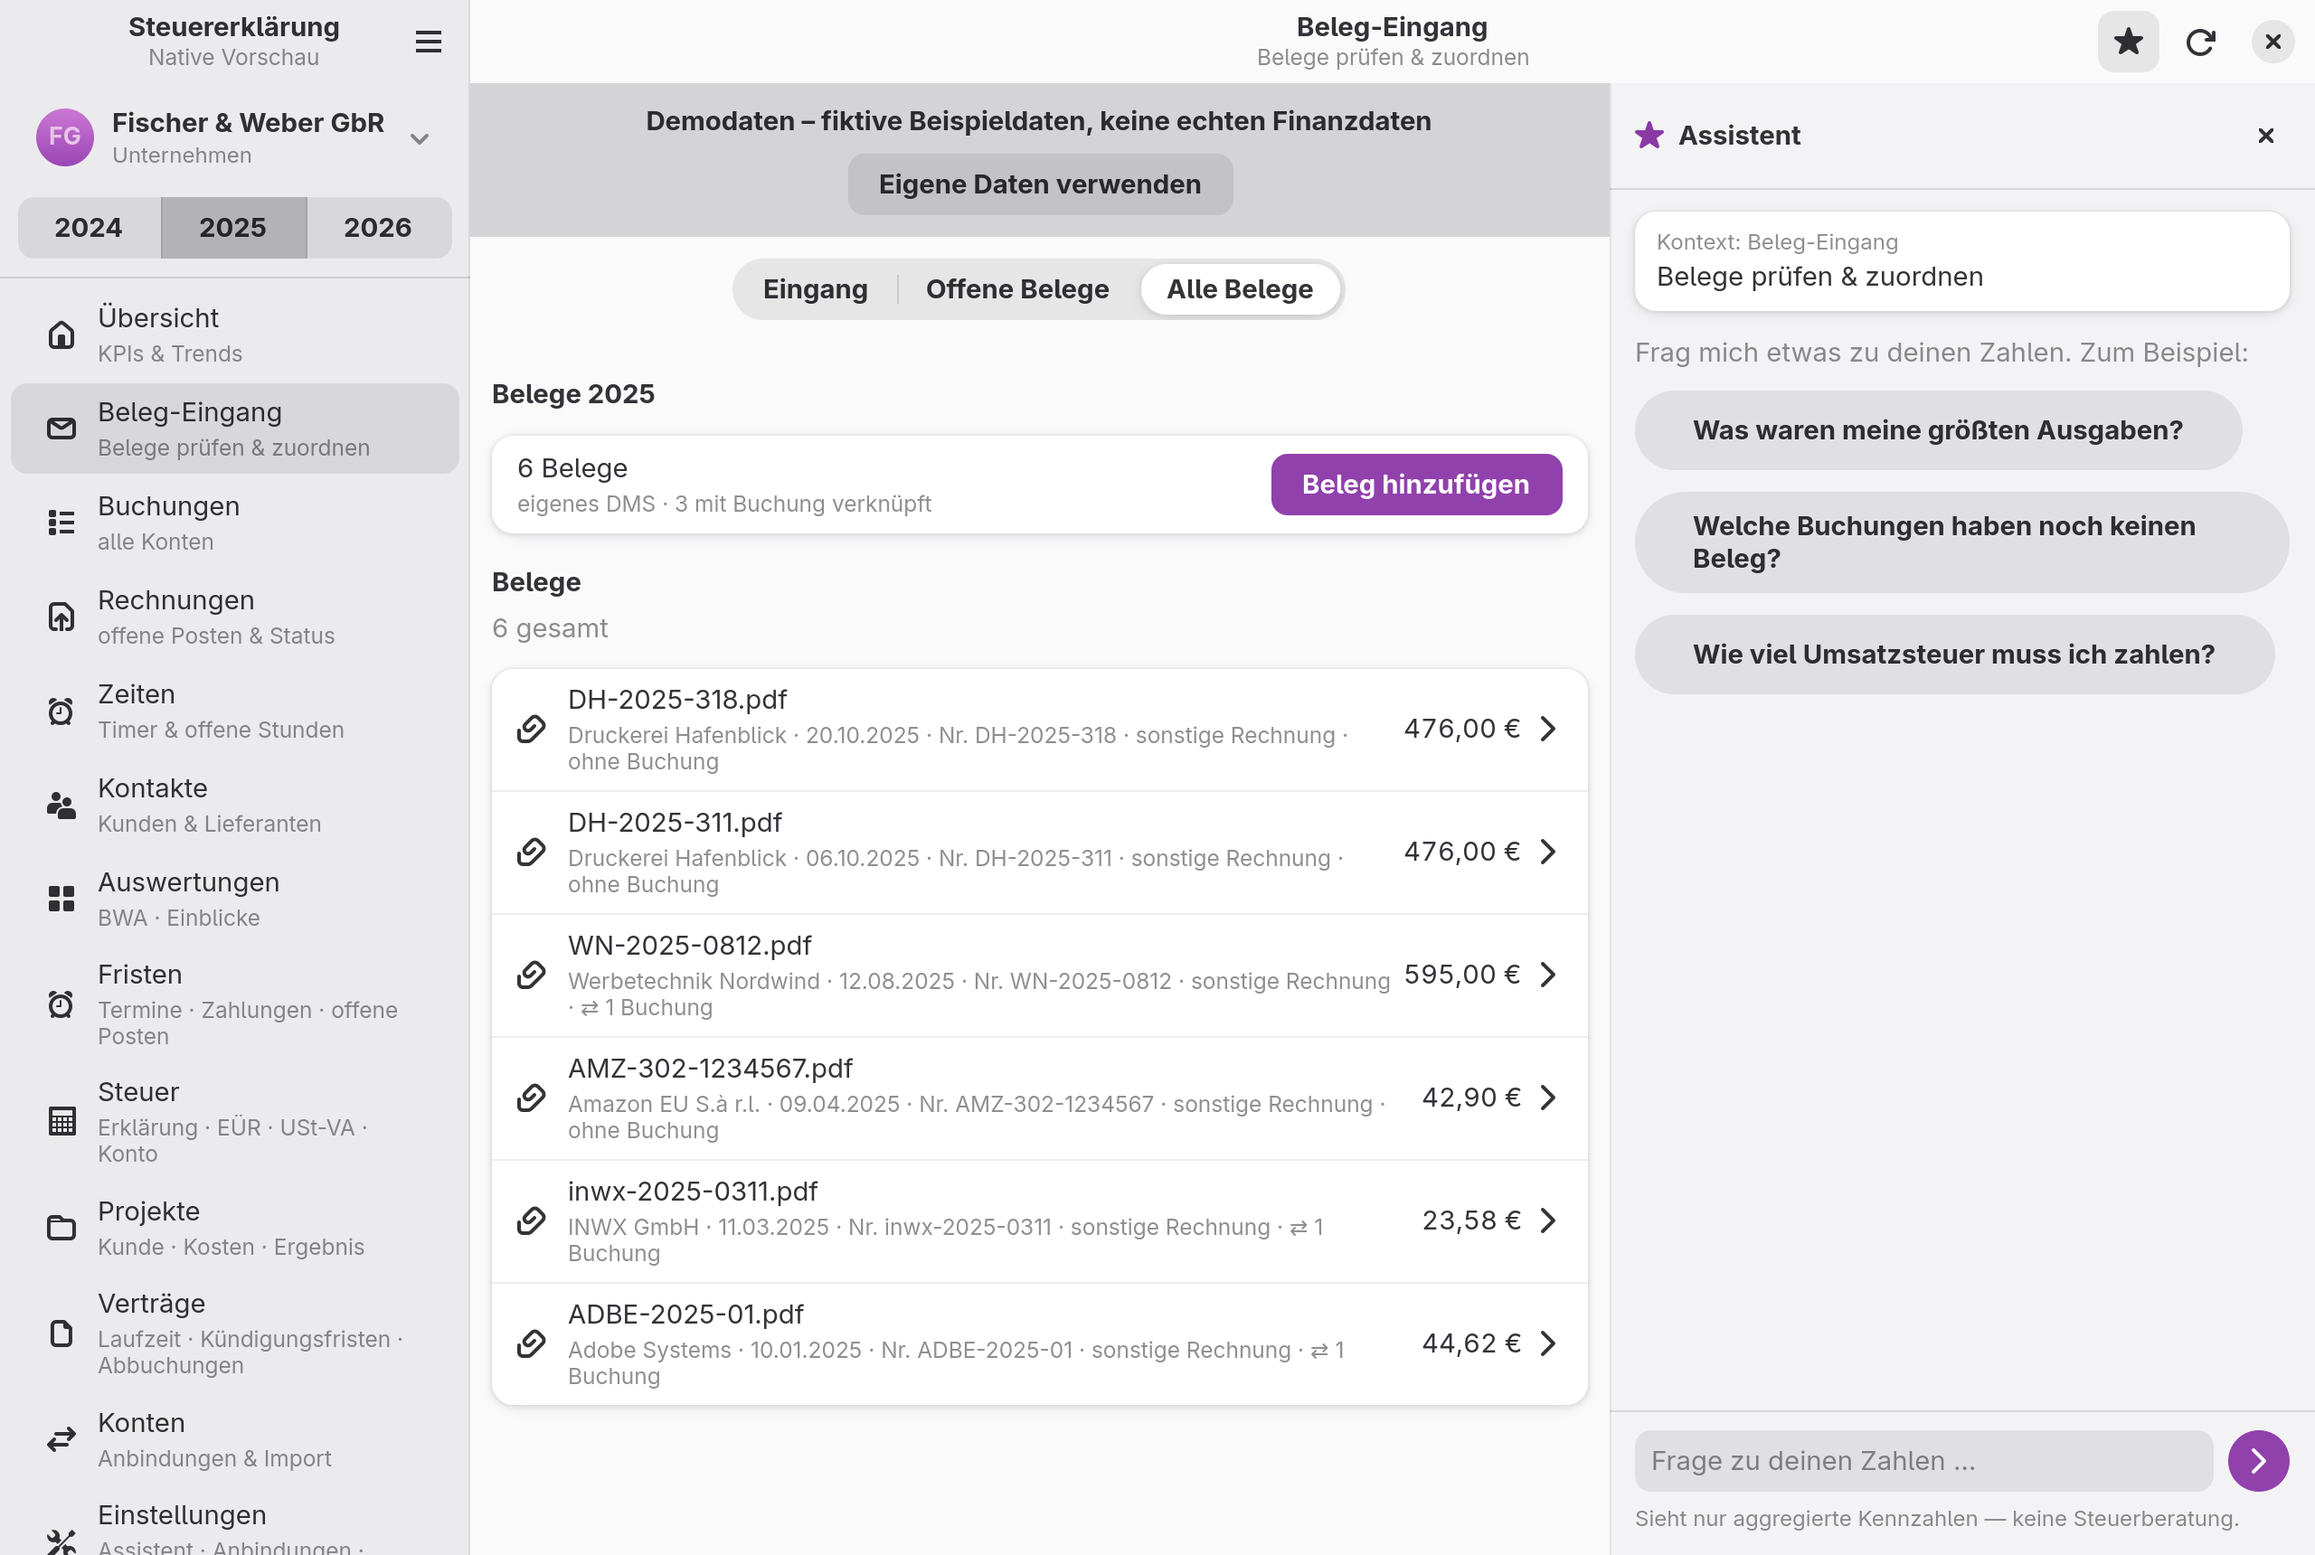
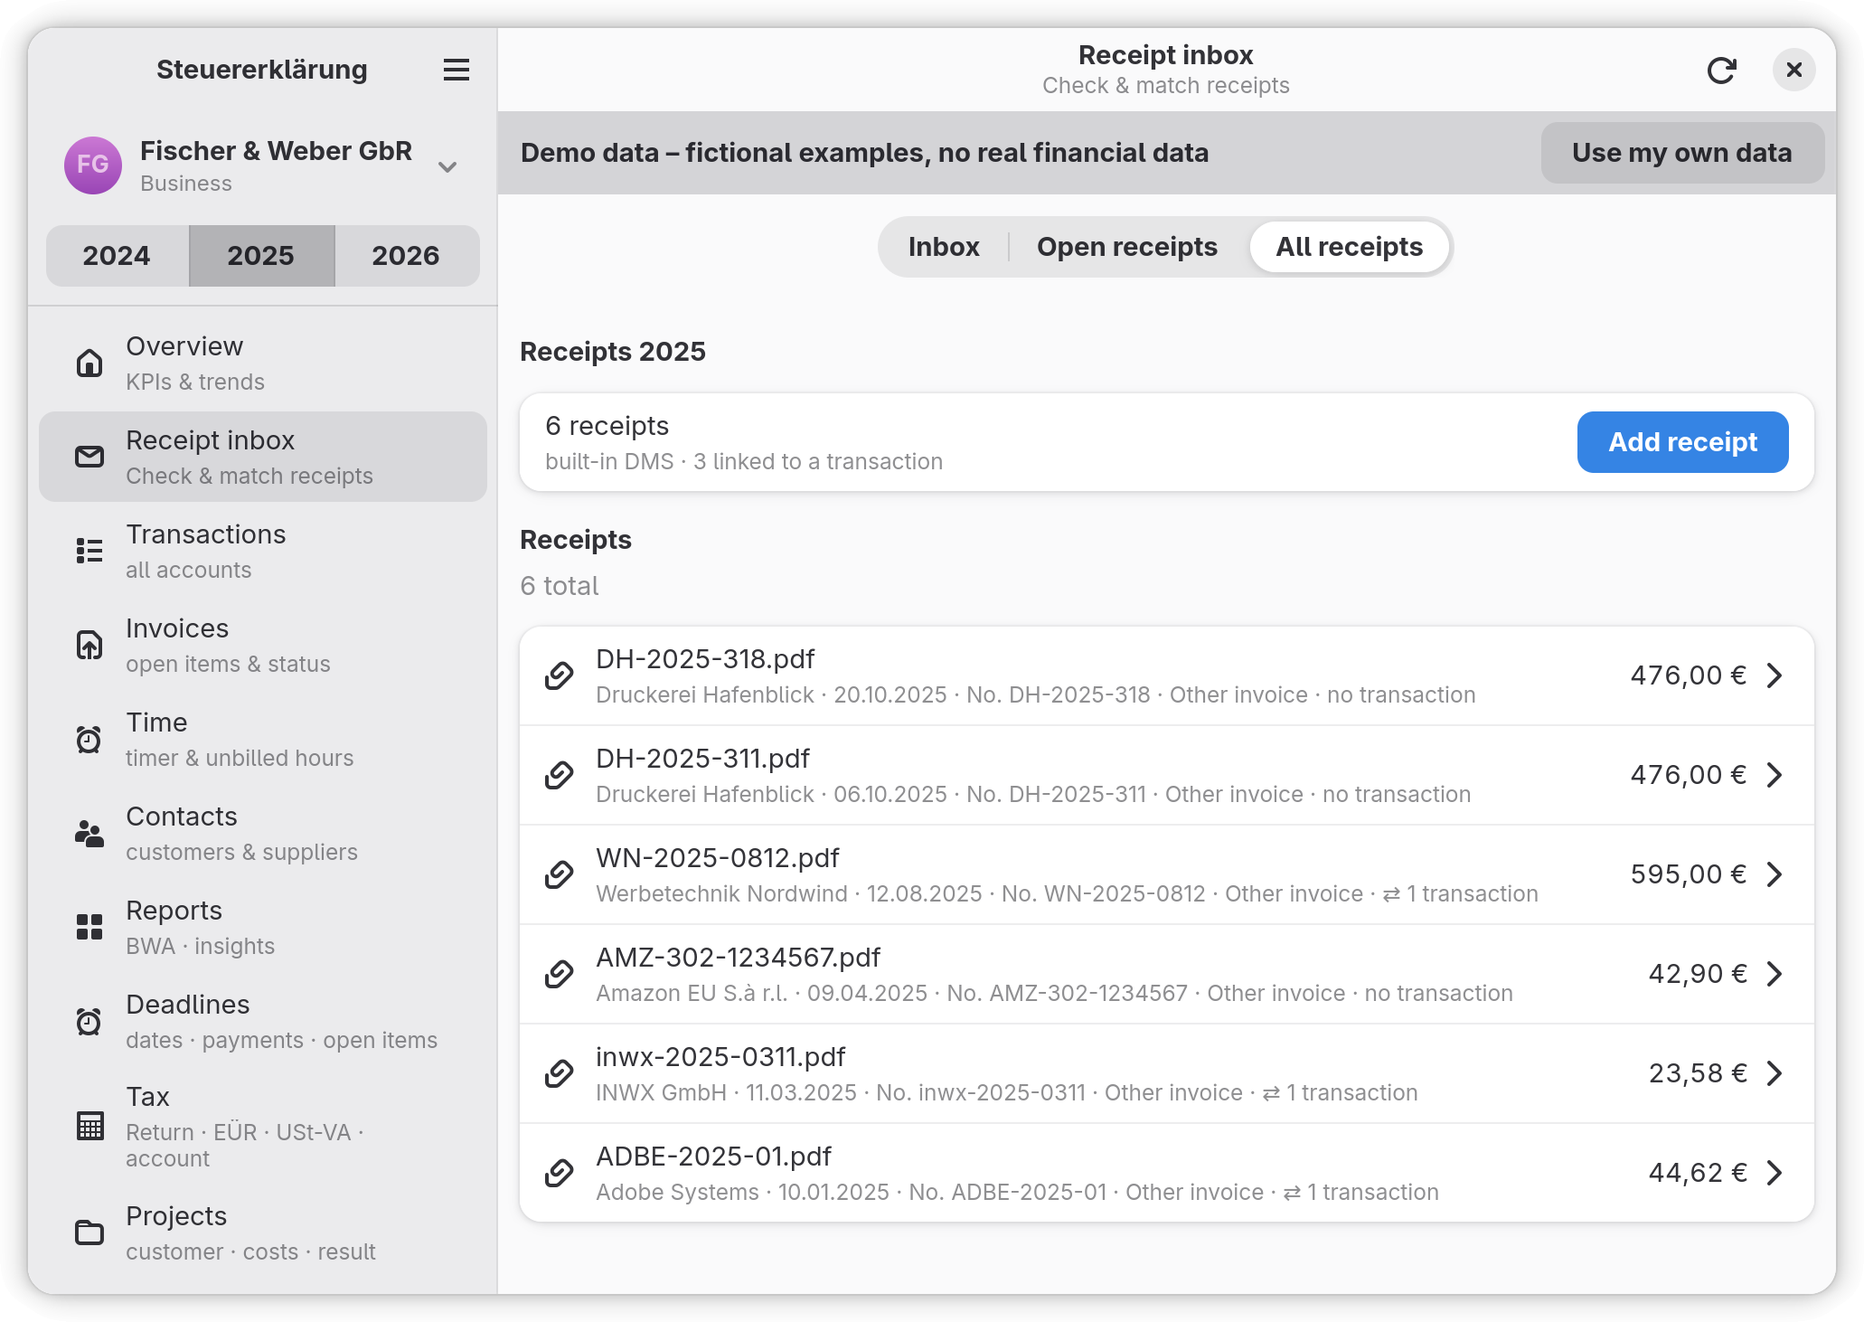
docs(screenshots): retake in English with German twins
Flathub's quality guidelines want the default window size, never upscaled, English first and
nothing but the window in the frame. metainfo-screenshots.sh now takes every view twice —
<name>.png in English for the metainfo and README.md, <name>-de.png for README.de.md and the
German manual — through 'headless-run --scale 2 --window-shot', which mattes the window off the
backdrop and keeps shadow, rounded corners and alpha (screenshot.sh only holds the stage,
STEUER_SHOT_HOLD=1). The demo ledger, cursors and DMS PDFs are purged between the two passes:
they are derived and they store translated text, so a store seeded in one language leaked German
into the English shots. The metainfo keeps the English image only; it is generated from
gjsify.ship, which has no localized image.

diff --git a/docs/app/README.md b/docs/app/README.md
@@ -44,7 +44,7 @@ das fertige Ergebnis sind und nie ein Zwischenstand.
 
 ## 1. Übersicht — Zahlen und was als Nächstes ansteht
 
-![Übersicht](../screenshots/01-uebersicht.png)
+![Übersicht](../screenshots/01-uebersicht-de.png)
 
 Der Einstieg: Gewinn, Einnahmen, Ausgaben und die Steuer-Prognose des Jahres als Kacheln,
 darunter **Als Nächstes** (die nächsten Fristen mit Fälligkeit und Begründung), der Verlauf von
@@ -58,7 +58,7 @@ bequeme Linse auf dieselben Daten, keine Steuerberatung.
 
 ## 2. Beleg-Eingang — Belege prüfen und zuordnen
 
-![Beleg-Eingang](../screenshots/02-beleg-eingang.png)
+![Beleg-Eingang](../screenshots/02-beleg-eingang-de.png)
 
 Der erste von drei Reitern unter **Beleg-Eingang**, und die Arbeitsfläche für neue Belege: links
 die Warteschlange, rechts der Beleg mit den extrahierten Feldern (Datum, Rechnungsnummer, netto,
@@ -78,7 +78,7 @@ sich ihre Vorsteuer gefahrlos abziehen lässt.
 
 ## 4. Alle Belege — der Dokumentenbestand
 
-![Alle Belege](../screenshots/04-belege.png)
+![Alle Belege](../screenshots/04-belege-de.png)
 
 Der dritte Reiter listet alle Belege des Entität-Jahres über denselben `DmsProvider`, den auch
 die Web-Oberfläche benutzt: beim eingebauten DMS ein lokaler SQLite-Zugriff, bei einer
@@ -87,7 +87,7 @@ Korrespondent, Datum, Belegnummer, Betrag und die Buchungsverknüpfung.
 
 ## 5. Buchungen — das Journal
 
-![Buchungen](../screenshots/05-buchungen.png)
+![Buchungen](../screenshots/05-buchungen-de.png)
 
 Alle Buchungen des Entität-Jahres über sämtliche Konten: oben eine Übersichtskarte (Anzahl,
 Einnahmen, Ausgaben, Saldo), darunter Suche, Filter (Alle · Einnahmen · Ausgaben · **Ohne
@@ -97,7 +97,7 @@ kein ausgehender Aufruf, die Ansicht ist sofort da.
 
 ## 6. Rechnungen — Ausgangsrechnungen und Wiederkehrendes
 
-![Rechnungen](../screenshots/06-rechnungen.png)
+![Rechnungen](../screenshots/06-rechnungen-de.png)
 
 Oben Offen / Überfällig / Bezahlt als Summen, dann zwei Abschnitte: **Wiederkehrende Rechnungen**
 (Verträge mit Intervall, Fälligkeit und „Entwurf erstellen") und **Alle Rechnungen** mit
@@ -249,7 +249,7 @@ Betrag in der Zeile.
 
 ## 8. Auswertungen — BWA und Einblicke
 
-![Auswertungen](../screenshots/08-auswertungen.png)
+![Auswertungen](../screenshots/08-auswertungen-de.png)
 
 Oben die betriebswirtschaftliche Auswertung: Gesamtleistung, Rohertrag, Betriebskosten und
 Betriebsergebnis als Summen über einer **Monatsmatrix** (Jan–Dez, Erträge, Kostengruppen,
@@ -260,7 +260,7 @@ Kleinunternehmer-Grenze) mit dem jeweiligen Betrag und der Rechtsgrundlage. Ausd
 
 ## 9. Steuer › Erklärung — der Weg zur Abgabe
 
-![Steuererklärung](../screenshots/09-steuererklaerung.png)
+![Steuererklärung](../screenshots/09-steuererklaerung-de.png)
 
 Der erste Reiter des Steuer-Hubs und die Antwort auf „kann ich abgeben?". Oben die
 voraussichtliche Nachzahlung mit ihren Bestandteilen, darunter der Abgabestatus mit dem Grund,
@@ -272,7 +272,7 @@ Abgabe noch zu klären.
 
 ## 10. Steuer › EÜR — Anlage EÜR
 
-![Anlage EÜR](../screenshots/10-euer.png)
+![Anlage EÜR](../screenshots/10-euer-de.png)
 
 Die Gewinnermittlung nach § 4 Abs. 3 EStG: Betriebseinnahmen, Betriebsausgaben, Gewinn und
 USt-Zahllast, darunter Einnahmen und Ausgaben nach Kategorie mit SKR-Konto und Buchungszahl.

diff --git a/README.md b/README.md
@@ -19,14 +19,15 @@ whole path from bank transaction to filed return on your own machine.
 | ![Receipt inbox](docs/screenshots/02-beleg-eingang.png) | ![Reports](docs/screenshots/08-auswertungen.png) |
 
 All screenshots use the bundled demo entity: an invented company with invented numbers.
-The app UI and most documentation are in German. A [screen-by-screen tour](docs/app/README.md)
-shows every view.
+The app follows your system language — English and German, with the official German tax
+terms kept in both. A [screen-by-screen tour](docs/app/README.md) shows every view in German.
 
 ## Who it is for
 
 German freelancers and small businesses who prepare their own tax returns, including
-English speakers living in Germany who file via ELSTER. The tax logic follows German law, so
-the interface and terms stay German. This README glosses them where needed.
+English speakers living in Germany who file via ELSTER. The interface speaks English and
+German; the tax logic follows German law, so the official terms stay German in both. This
+README glosses them where needed.
 
 ## Features
 

diff --git a/README.de.md b/README.de.md
@@ -13,12 +13,12 @@ Veranlagungszeitraum 2020 nicht mehr zugelassen. Was bleibt, ist das Browser-Por
 Versuch, den Weg von der Bankbuchung bis zum Transferticket auf dem eigenen Rechner
 zusammenhängend zu machen.
 
-![Übersicht](docs/screenshots/01-uebersicht.png)
+![Übersicht](docs/screenshots/01-uebersicht-de.png)
 
 | | |
 |---|---|
-| ![Steuererklärung](docs/screenshots/09-steuererklaerung.png) | ![Anlage EÜR](docs/screenshots/10-euer.png) |
-| ![Beleg-Eingang](docs/screenshots/02-beleg-eingang.png) | ![Auswertungen](docs/screenshots/08-auswertungen.png) |
+| ![Steuererklärung](docs/screenshots/09-steuererklaerung-de.png) | ![Anlage EÜR](docs/screenshots/10-euer-de.png) |
+| ![Beleg-Eingang](docs/screenshots/02-beleg-eingang-de.png) | ![Auswertungen](docs/screenshots/08-auswertungen-de.png) |
 
 Alle Bilder stammen aus der mitgelieferten Demo-Entität — erfundene Firma, erfundene
 Zahlen. Der [Bildschirm-für-Bildschirm-Rundgang](docs/app/README.md) zeigt jede Ansicht.
